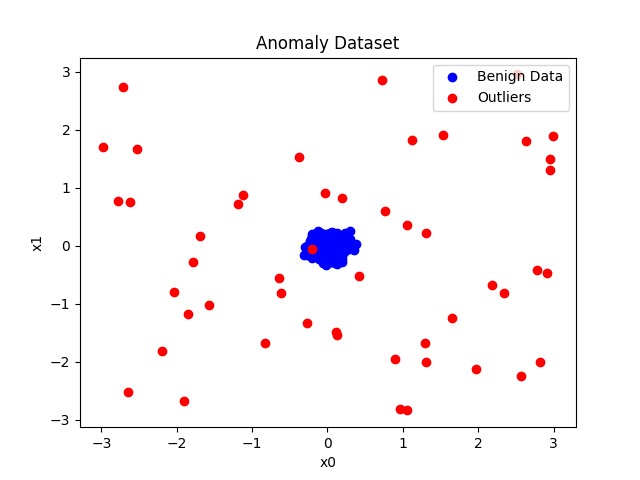
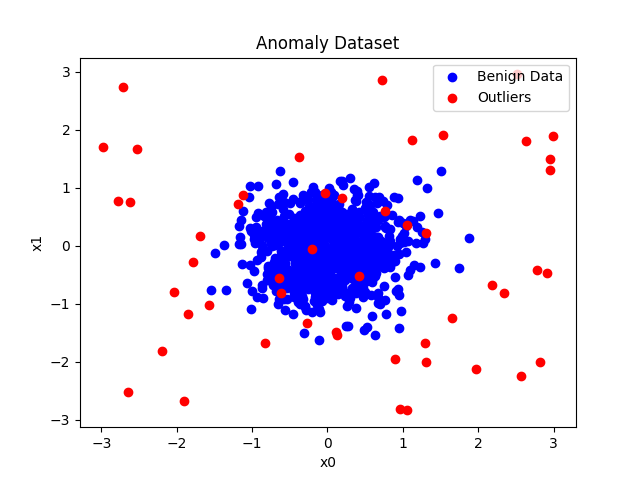
MLP Network Complete

Changed region(s): [[0.3125, 0.3438, 0.7188, 0.7188], [0.625, 0.3438, 0.7188, 0.4062], [0.7188, 0.4688, 0.75, 0.5]]

diff --git a/simulation.py b/simulation.py
@@ -4,11 +4,14 @@
 import numpy as np
 import pandas as pd
 import matplotlib.pyplot as plt
+from matplotlib.colors import ListedColormap
+from sklearn.inspection import DecisionBoundaryDisplay
 from sklearn.model_selection import train_test_split
+from sklearn.neural_network import MLPClassifier
 
 # generate random 2d data using numpy
 np.random.seed(7)
-mu, sigma = 0, 0.1
+mu, sigma = 0, 0.5
 
 # Gaussian distributed standard data
 X_data = np.random.normal(mu, sigma, (1000, 2))
@@ -20,7 +23,7 @@ y_outliers = np.ones((50, 1))
 
 # stack the data into X and y arrays with labels
 anomaly_data_X = np.vstack((X_data, X_outliers))
-anomaly_data_y = np.vstack((y_data, y_outliers))
+anomaly_data_y = np.vstack((y_data, y_outliers)).squeeze(1)
 
 # separate the data into testing and training
 X_train, X_test, y_train, y_test = train_test_split(anomaly_data_X, anomaly_data_y, test_size=0.2, random_state=7)
@@ -38,12 +41,30 @@ plt.legend(['Benign Data', 'Outliers'], loc='upper right')
 plt.title("Anomaly Dataset")
 plt.savefig("output/anomaly_dataset.png")
 
+# set colormaps for figures
+cm = plt.set_cmap('RdBu')
+cm_bright = ListedColormap(["#FF0000", "#0000FF"])
+
 #----------------------------------------
-#             Tim's Thing
+#   MLP ANN Classifier - Tim Horrell
 #----------------------------------------
 
-# Explanation of method
+# The MLP Network utilizes stochastic gradient descent (Adam, Relu, (100,) hidden layer defaults)
+# Fit the Neural Network
+L2_regularization = 0.0001
+mlp = MLPClassifier(alpha=L2_regularization, random_state=7, max_iter=500).fit(X_train, y_train)
 
+# accuracy test
+print(f'MLP Network Accuracy: ',mlp.score(X_test, y_test))
+# NOTE: Accuracy is historically 99%
+
+# view decision boundary
+MLP_figure = plt.figure()
+mlp_ax = plt.subplot(1, 1, 1)
+mlp_ax.scatter(X_train[:, 0], X_train[:, 1], c=y_train, cmap = cm_bright, edgecolors='k')
+mlp_ax.set_title("MLP Test Data and Decision Boundary")
+DecisionBoundaryDisplay.from_estimator(mlp, X_test, cmap=cm, alpha=0.8, ax=mlp_ax, eps=5)
+plt.savefig('output/MLP_test_decision_boundary.png')
 
 #----------------------------------------
 #       Local Outlier Technique
